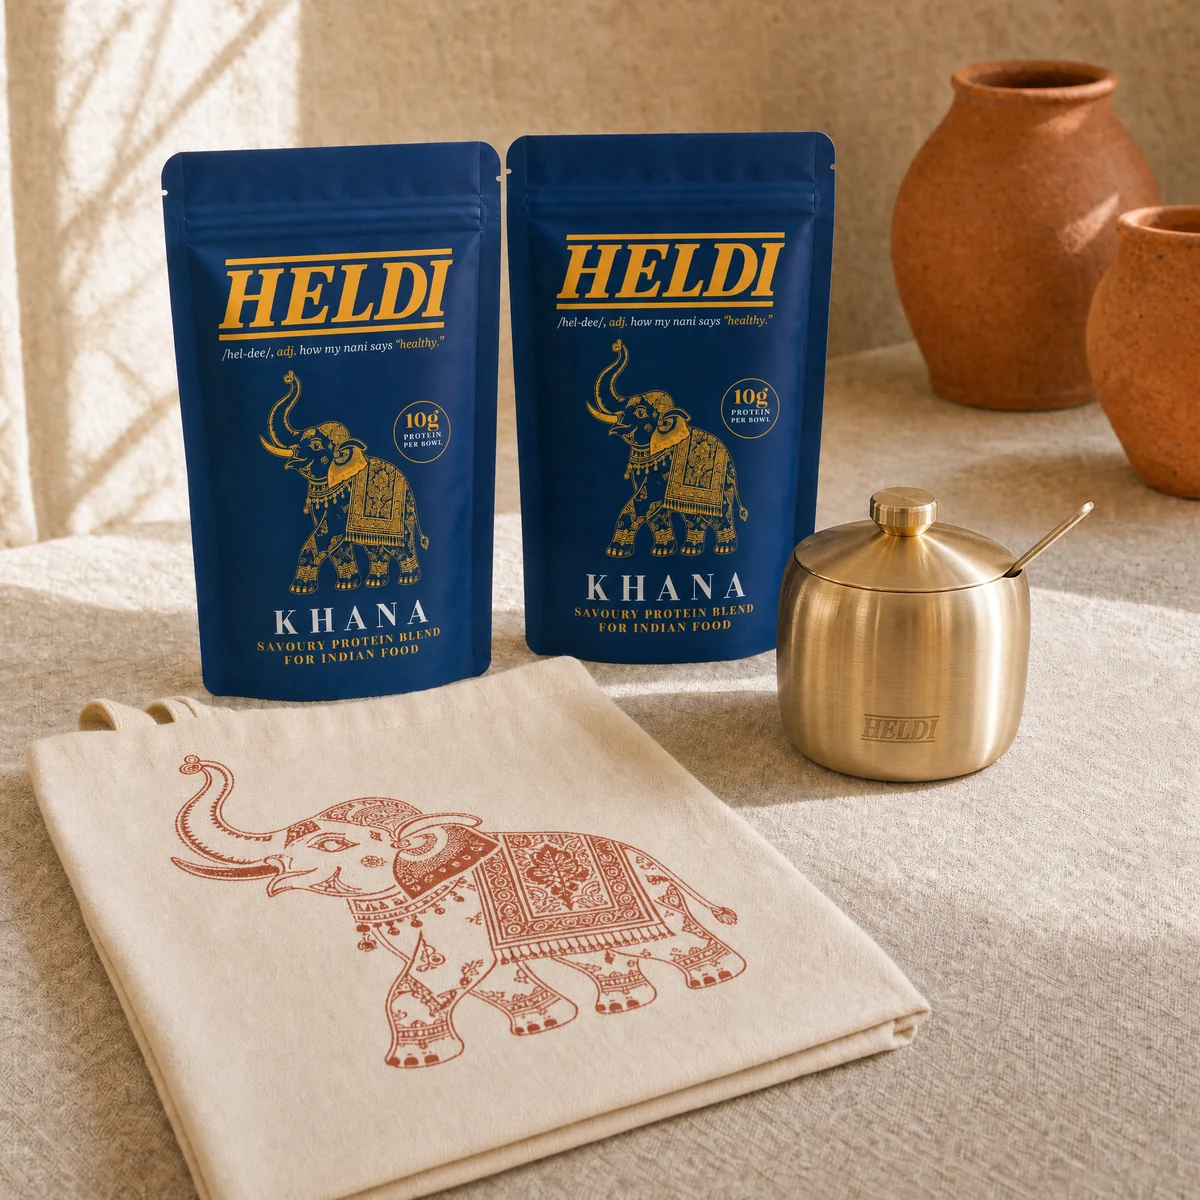
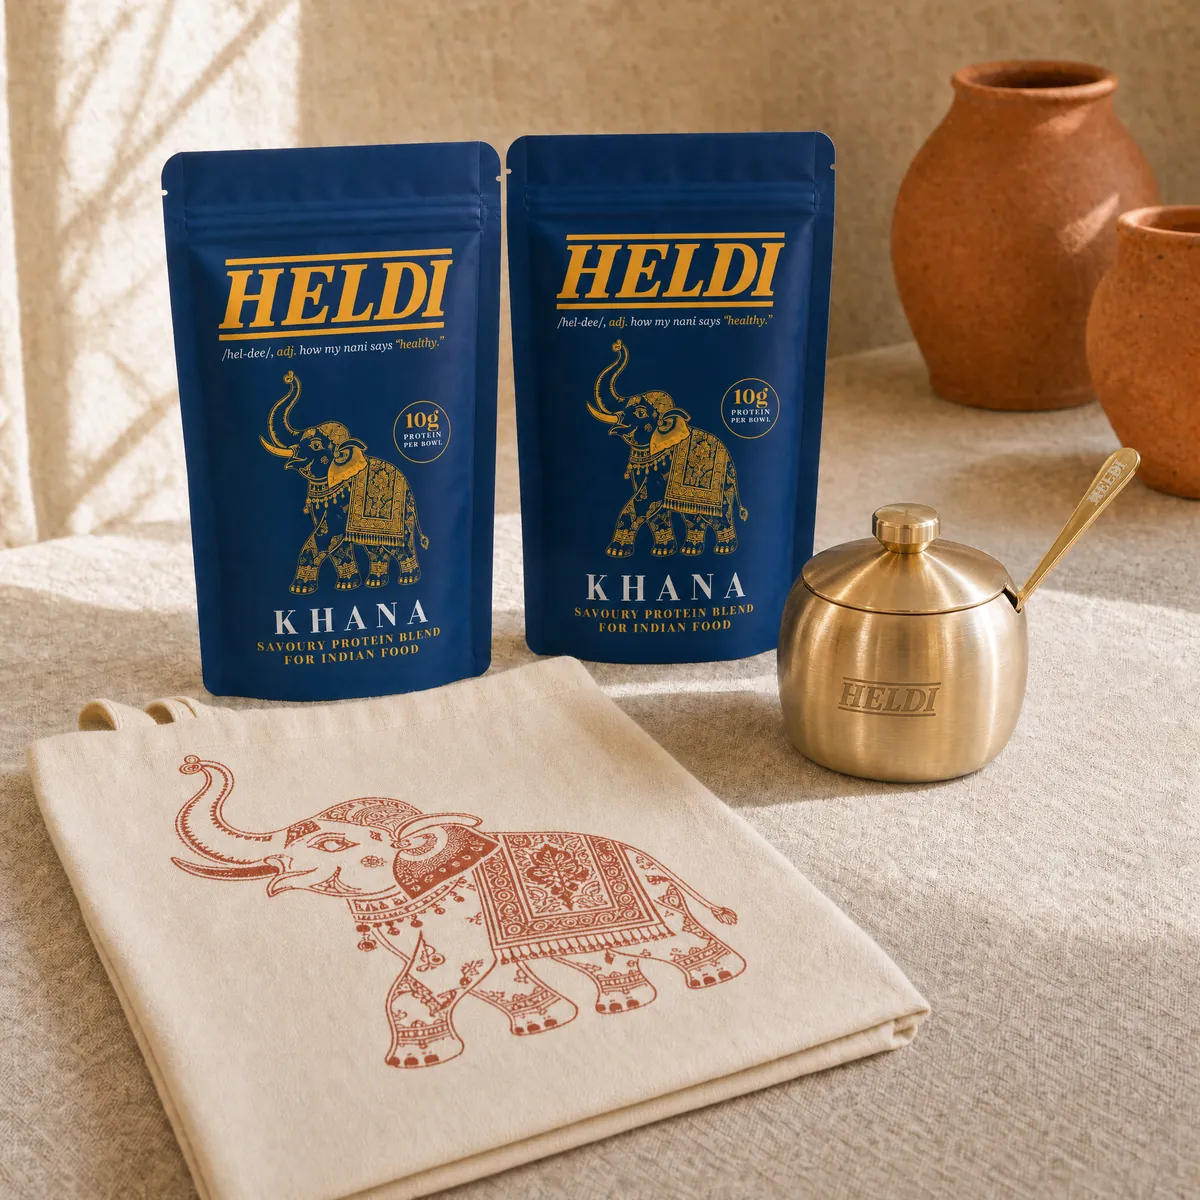
Show the real jar: HELDI halfway up the body, and the spoon on its own
Mihir's photos of the run-1 jar show the etched HELDI at the middle of the
body, where the round-16 renders had put it near the base. The real jar is
also squatter and rounder, and its soup spoon carries HELDI on the handle.

Redone with GPT Image 2 from his photos: the five shop scenes, the homepage
jar card, the jar thumbnail (now the jar alone) and the jar-with-spoon shot.
In the scenes only the jar and spoon pixels changed; pouches, tote and set
are the round-16 pixels. New: gift-spoon.webp, the spoon alone with the
handle engraving in focus (SPOON_IMAGE, not on a page yet).

Every swapped file has a bumped ?v= (and JAR_THUMB / JAR_SPOON_IMAGE gain
one), and IMAGE_VERSION goes to ink-blue-15. Method and job ids: HeldiPM
design/site-photography/2026-10-round17-jar/.

Changed region(s): [[0.6167, 0.37, 0.9558, 0.6475]]

diff --git a/lib/commerce/catalog.ts b/lib/commerce/catalog.ts
@@ -126,13 +126,19 @@ export function isGiftLine(line: Pick<CartLine, "merchandise">): boolean {
 // stainless barrel with a domed lid, a rim notch for the spoon and a small
 // etched HELDI. It replaces the engraved brass jar the September shots
 // invented. Its reference photos are in HeldiPM design/merch/run1-jar-reference/.
+// The jar was redone again the same evening (HeldiPM design/site-photography/
+// 2026-10-round17-jar/, GPT Image 2 from Mihir's own photos of the jar): the
+// round-16 renders put the etched HELDI low on the body, and on the real jar
+// it sits halfway up, at the widest point. The real jar is also squatter and
+// rounder, like a small apple, and its spoon handle carries an engraved HELDI.
+// Only the jar and spoon pixels changed; pouches, tote and set are untouched.
 // The `triple` key survives only because TierId still has three members; it
 // now carries the mixed pair, which is a basket a customer can actually buy.
 // It goes when the tier model does.
 const TIER_IMAGES: Record<TierId, { url: string; altText: string }> = {
-  single: { url: "/images/shop/khana-1.webp?v=6", altText: "Navy Heldi Khana pouch beside the gold table jar and its gold spoon" },
-  double: { url: "/images/shop/khana-bundle-2.webp?v=7", altText: "Two navy Heldi Khana pouches with the gold table jar, its gold spoon and the cotton tote bag" },
-  triple: { url: "/images/shop/khana-chai-pair.webp?v=3", altText: "Navy Heldi Khana and terracotta Heldi Chai pouches with the gold table jar, its gold spoon and the cotton tote bag" }
+  single: { url: "/images/shop/khana-1.webp?v=7", altText: "Navy Heldi Khana pouch beside the gold table jar and its gold spoon" },
+  double: { url: "/images/shop/khana-bundle-2.webp?v=8", altText: "Two navy Heldi Khana pouches with the gold table jar, its gold spoon and the cotton tote bag" },
+  triple: { url: "/images/shop/khana-chai-pair.webp?v=4", altText: "Navy Heldi Khana and terracotta Heldi Chai pouches with the gold table jar, its gold spoon and the cotton tote bag" }
 };
 // One shot per sachet SKU, all three on the same set as the pouch range
 // (GPT Image 2, 4 Sep 2026). Before this the Chai sachet and both pair SKUs
@@ -157,8 +163,10 @@ export const POUCH_THUMB = "/images/shop/pouch-solo.webp?v=5";
 // them would have served the previous jar for a month. That happened twice:
 // gift-jar-brass.webp (4 Sep, the engraved brass jar) replaced the unengraved
 // jar, and gift-jar.webp (3 Oct, the real run-1 jar) replaced the brass one.
-// The older files stay on disk.
-export const JAR_THUMB = "/images/shop/gift-jar.webp";
+// The older files stay on disk. gift-jar.webp has carried a ?v= since its
+// second reshoot (3 Oct, HELDI moved up to the middle of the body), so the
+// next swap can be in place.
+export const JAR_THUMB = "/images/shop/gift-jar.webp?v=2";
 // ?v=2: reshot 4 Sep 2026 in place. The first solo tote carried an elephant
 // that was not the Heldi elephant, on a set of its own.
 //
@@ -182,7 +190,11 @@ export const TOTE_THUMB = "/images/shop/gift-tote.webp?v=2";
 
 // The jar photographed with its spoon, at gallery size rather than thumb size.
 // Not wired to a line yet: the £0 jar variant uses the tight JAR_THUMB crop.
-export const JAR_SPOON_IMAGE = "/images/shop/gift-jar-spoon.webp";
+export const JAR_SPOON_IMAGE = "/images/shop/gift-jar-spoon.webp?v=2";
+
+// The spoon on its own, close on the handle so the engraved HELDI reads.
+// It is a soup spoon, and it ships resting in the jar. Not wired yet either.
+export const SPOON_IMAGE = "/images/shop/gift-spoon.webp";
 /** @deprecated The dabba is withdrawn. Kept until the cart stops reading it. */
 export const DABBA_THUMB = TOTE_THUMB;
 export const SAMPLE_THUMB = "/images/shop/sample.webp?v=5";

diff --git a/components/shop/chai-data.ts b/components/shop/chai-data.ts
@@ -279,7 +279,7 @@ export type ChaiImage = { url: string; altText: string };
  *  Regenerate with a ?v= bump so the image optimizer drops the old one. */
 export const CHAI_IMAGES: ChaiImage[] = [
   {
-    url: "/images/shop/chai-1.webp?v=6",
+    url: "/images/shop/chai-1.webp?v=7",
     altText: "The terracotta Heldi Chai pouch beside the gold table jar and its gold spoon"
   },
   {
@@ -287,11 +287,11 @@ export const CHAI_IMAGES: ChaiImage[] = [
     altText: "The Heldi Chai pouch on its own, front facing"
   },
   {
-    url: "/images/shop/chai-bundle-2.webp?v=6",
+    url: "/images/shop/chai-bundle-2.webp?v=7",
     altText: "Two Heldi Chai pouches with the gold table jar, its gold spoon and the cotton tote bag"
   },
   {
-    url: "/images/shop/khana-chai-pair.webp?v=3",
+    url: "/images/shop/khana-chai-pair.webp?v=4",
     altText: "One Heldi Chai pouch and one Heldi Khana pouch with the gold table jar, its gold spoon and the cotton tote bag"
   }
 ];

diff --git a/components/heldi-homepage.tsx b/components/heldi-homepage.tsx
@@ -218,7 +218,7 @@ const HERO_SHOWCASE_PILLS: {
   }
 ];
 
-const IMAGE_VERSION = "ink-blue-14";
+const IMAGE_VERSION = "ink-blue-15";
 const IMAGE_BASE = "/images/variants/ink-blue";
 
 function imageSrc(path: string) {

diff --git a/NEXT_STEPS.md b/NEXT_STEPS.md
@@ -202,6 +202,7 @@ Nothing here is needed for the page as it stands. It is the list of what the
 - [x] **Chai on the homepage, 2 Sep 2026 (evening).** Beyond the range band: a "To finish · Masala chai" line on every menu card (uncounted, outlined pill, `CHAI_TO_FINISH` in `menu-gallery.tsx`), a fourth how-it-works card "In the mug" (the `mug` method in `ways-to-use-methods.tsx`, strip art `public/images/ways-to-use/mug-strip.webp` + `public/videos/ways-to-use/mug-strip.mp4`, made to `fable/ways-to-use-strips/STYLE.md`; the desktop grid went 3-up to 2×2), a sixth stir-gallery card "Masala chai" that plays a stir but shows "Chai, figure to follow" instead of grams (`masala-chai.webp` + `masala-chai-stir.mp4`), a "Hot drinks" row in Heldi vs the shaker, one line each in the pouch section, the parents audience card, the final CTA and the popup, and a second FAQ ("Can I put Khana in my chai?"). Every one of them is figure-free until Chai's declaration lands; when it does, the menu pill, the stir counter and the ways note are the three places a number goes
 - [ ] All of it is AI-generated, like Khana's. Replace with real photography when the physical product exists
 - [x] **Round-16 product photos, 3 Oct 2026.** The seven pouch shots, the three sachets and both jar thumbnails in `public/images/shop/` now carry the round-16 fronts (SAVOURY PROTEIN BLEND / FOR INDIAN FOOD, SPICED PROTEIN BLEND) and the real run-1 jar, from HeldiPM `design/site-photography/2026-10-round16/` (its README has the method). Every in-place swap has a bumped `?v=`; `JAR_THUMB` and `JAR_SPOON_IMAGE` point at the new `gift-jar.webp` / `gift-jar-spoon.webp`, with the `gift-jar-brass*.webp` files left on disk; the jar alts say "the gold table jar and its gold spoon". Two jobs remain. **Shopify, by hand:** re-upload the product images, since `public/images/originals/shopify-upload/` still holds the old shots for HELDI-K1C0, K2C0, K0C1, K0C2, K1C1, the three sample SKUs (and the free pair) and HELDI-JAR. The second batch landed the same day, from `batch2/` in the same HeldiPM folder: the homepage hero pair and jar card (`variants/ink-blue/`, `IMAGE_VERSION` now `ink-blue-13`; the jar card shows the real jar and its spoon, alt updated), both `public/images/range/` tiles, the comparison pouch, and the three share-card arts in `assets/og/` (the single-pouch crops are a few percent wider, so the descriptor shows)
+- [x] **The jar redone from Mihir's own photos, 3 Oct 2026 (evening).** The round-16 renders etched HELDI low on the jar; on the real jar it sits halfway up the body, which is squatter and rounder, like a small apple. Every photo with the jar now shows it that way: the five `/shop` scenes (`khana-1`, `chai-1`, `khana-bundle-2`, `chai-bundle-2`, `khana-chai-pair`), `gift-jar.webp` (the jar alone, no spoon), `gift-jar-spoon.webp` and the homepage jar card (`IMAGE_VERSION` `ink-blue-15`). Only the jar and spoon pixels changed; the pouches and tote are the round-16 pixels. New: `public/images/shop/gift-spoon.webp`, the soup spoon on its own with the engraved HELDI on its handle in focus (`SPOON_IMAGE` in `catalog.ts`, not wired to a page yet). Method, prompts, job ids and masters: HeldiPM `design/site-photography/2026-10-round17-jar/`. The Shopify re-upload above should use these files, not the round-16 ones
 - [ ] **Re-scrape the share cards after the next deploy.** The Open Graph cards for `/`, `/shop`, `/shop/khana` and `/shop/chai` now carry the round-16 fronts, but they are built at deploy time and WhatsApp, Facebook, LinkedIn and X cache a card on their side for days. Once deployed, push each URL through the Facebook Sharing Debugger ("Scrape again") and the LinkedIn Post Inspector; X and WhatsApp refresh on their own schedule. **(Mihir, after deploy)**
 - [ ] **Tidy up the retired hero film (no rush, nothing live).** `public/videos/heldi-hero-v3.mp4` (the family-table film whose smoke clears to a marigold pouch and "Bringing something new to the table") only plays in the homepage's old `heroLayout="video"`. The live homepage uses `"reveal"`, the gold elephant run, which shows no pouch at all, and the film and its poster are gitignored, so neither is deployed. Either delete `HeroVideo` and the two files, or remake the film before anyone switches the layout back. brand-lint's "will 404 in production" warning for these two files is this, and is harmless while the layout stays `"reveal"` **(Mihir, whenever)**
 
